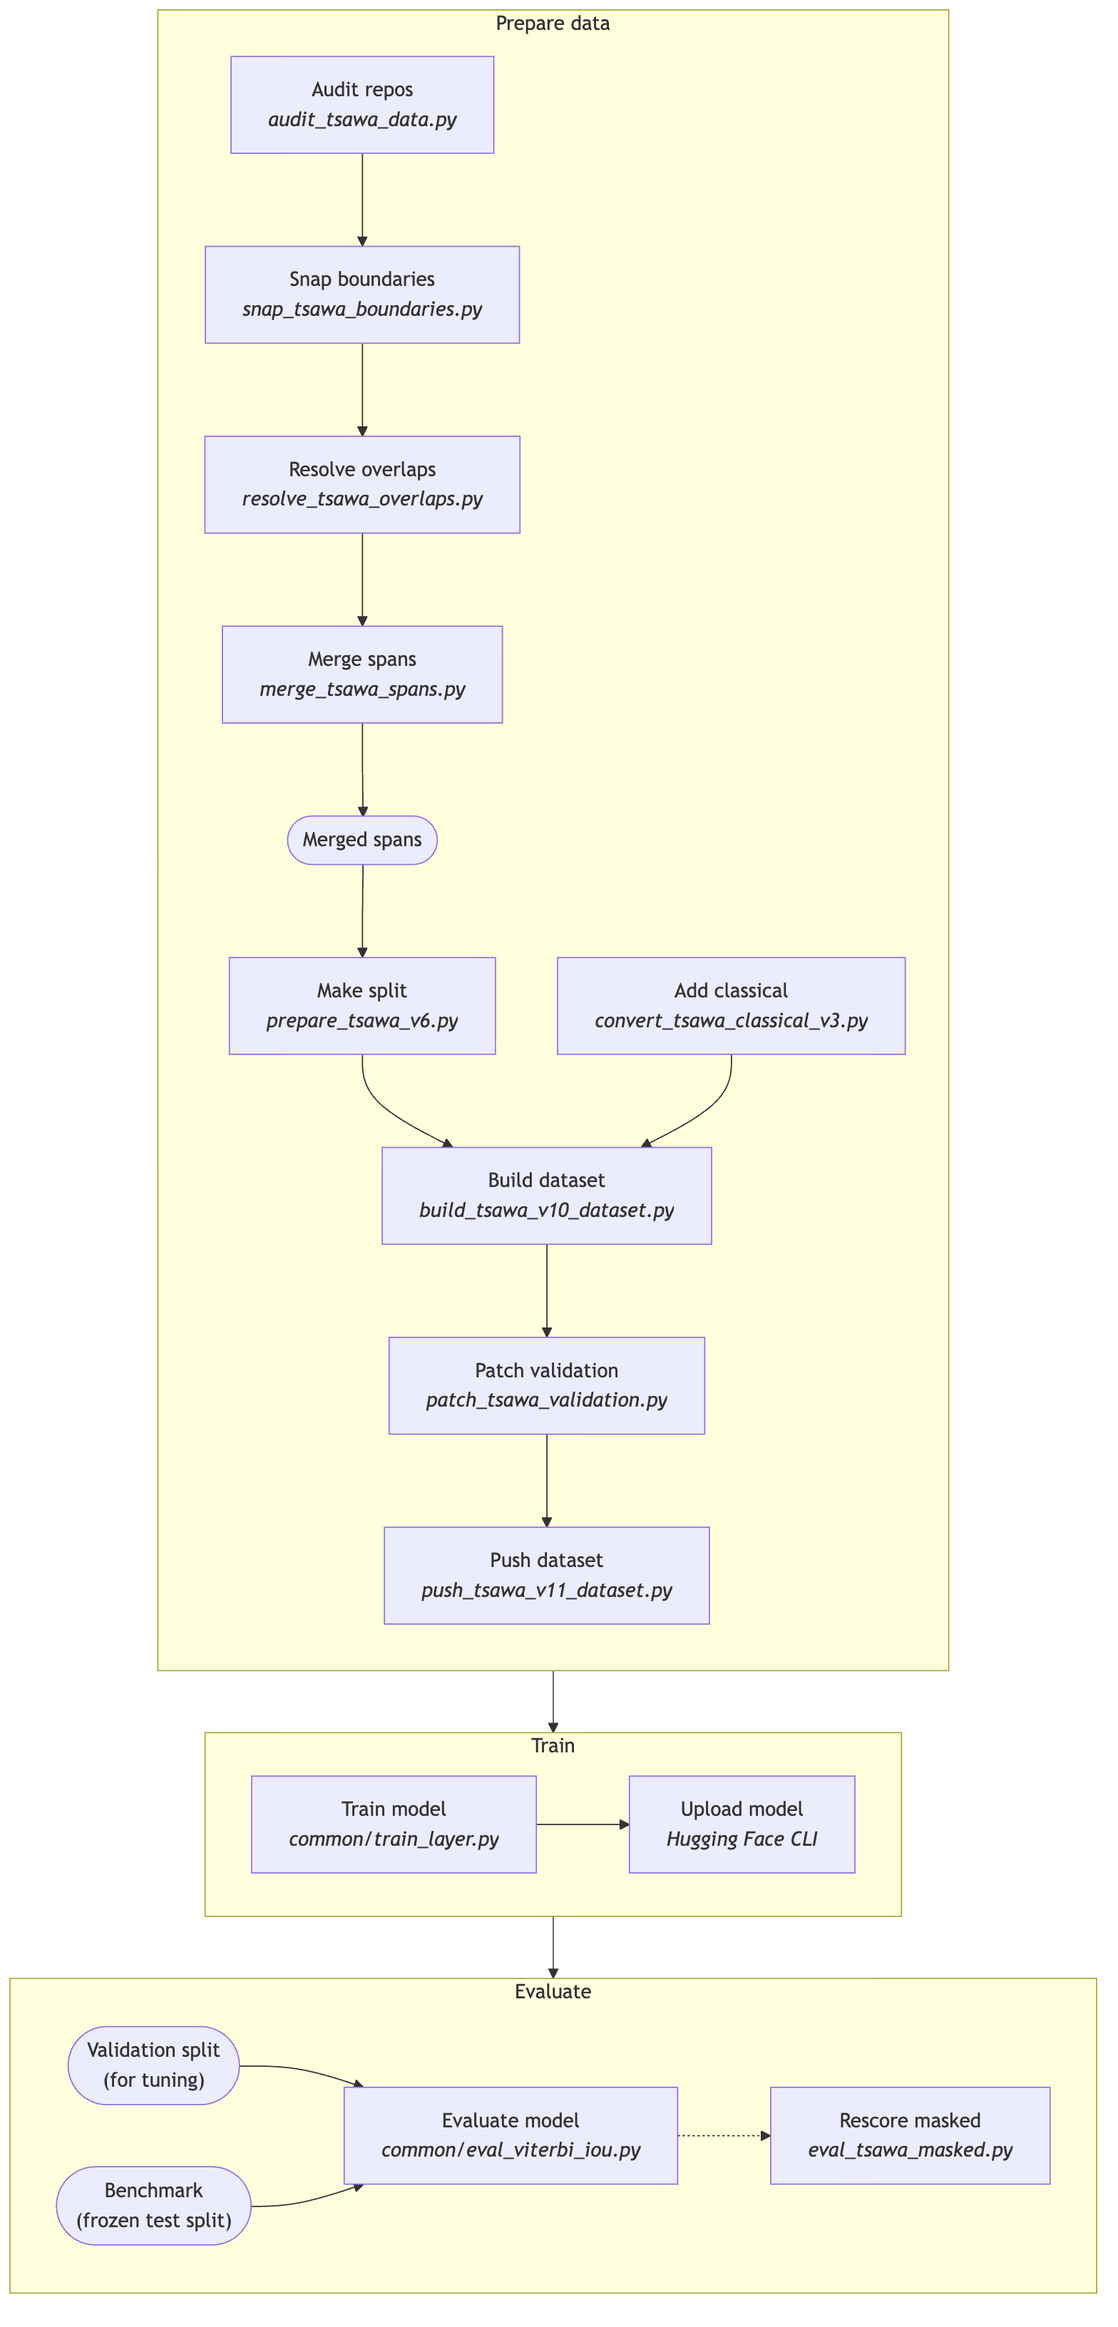
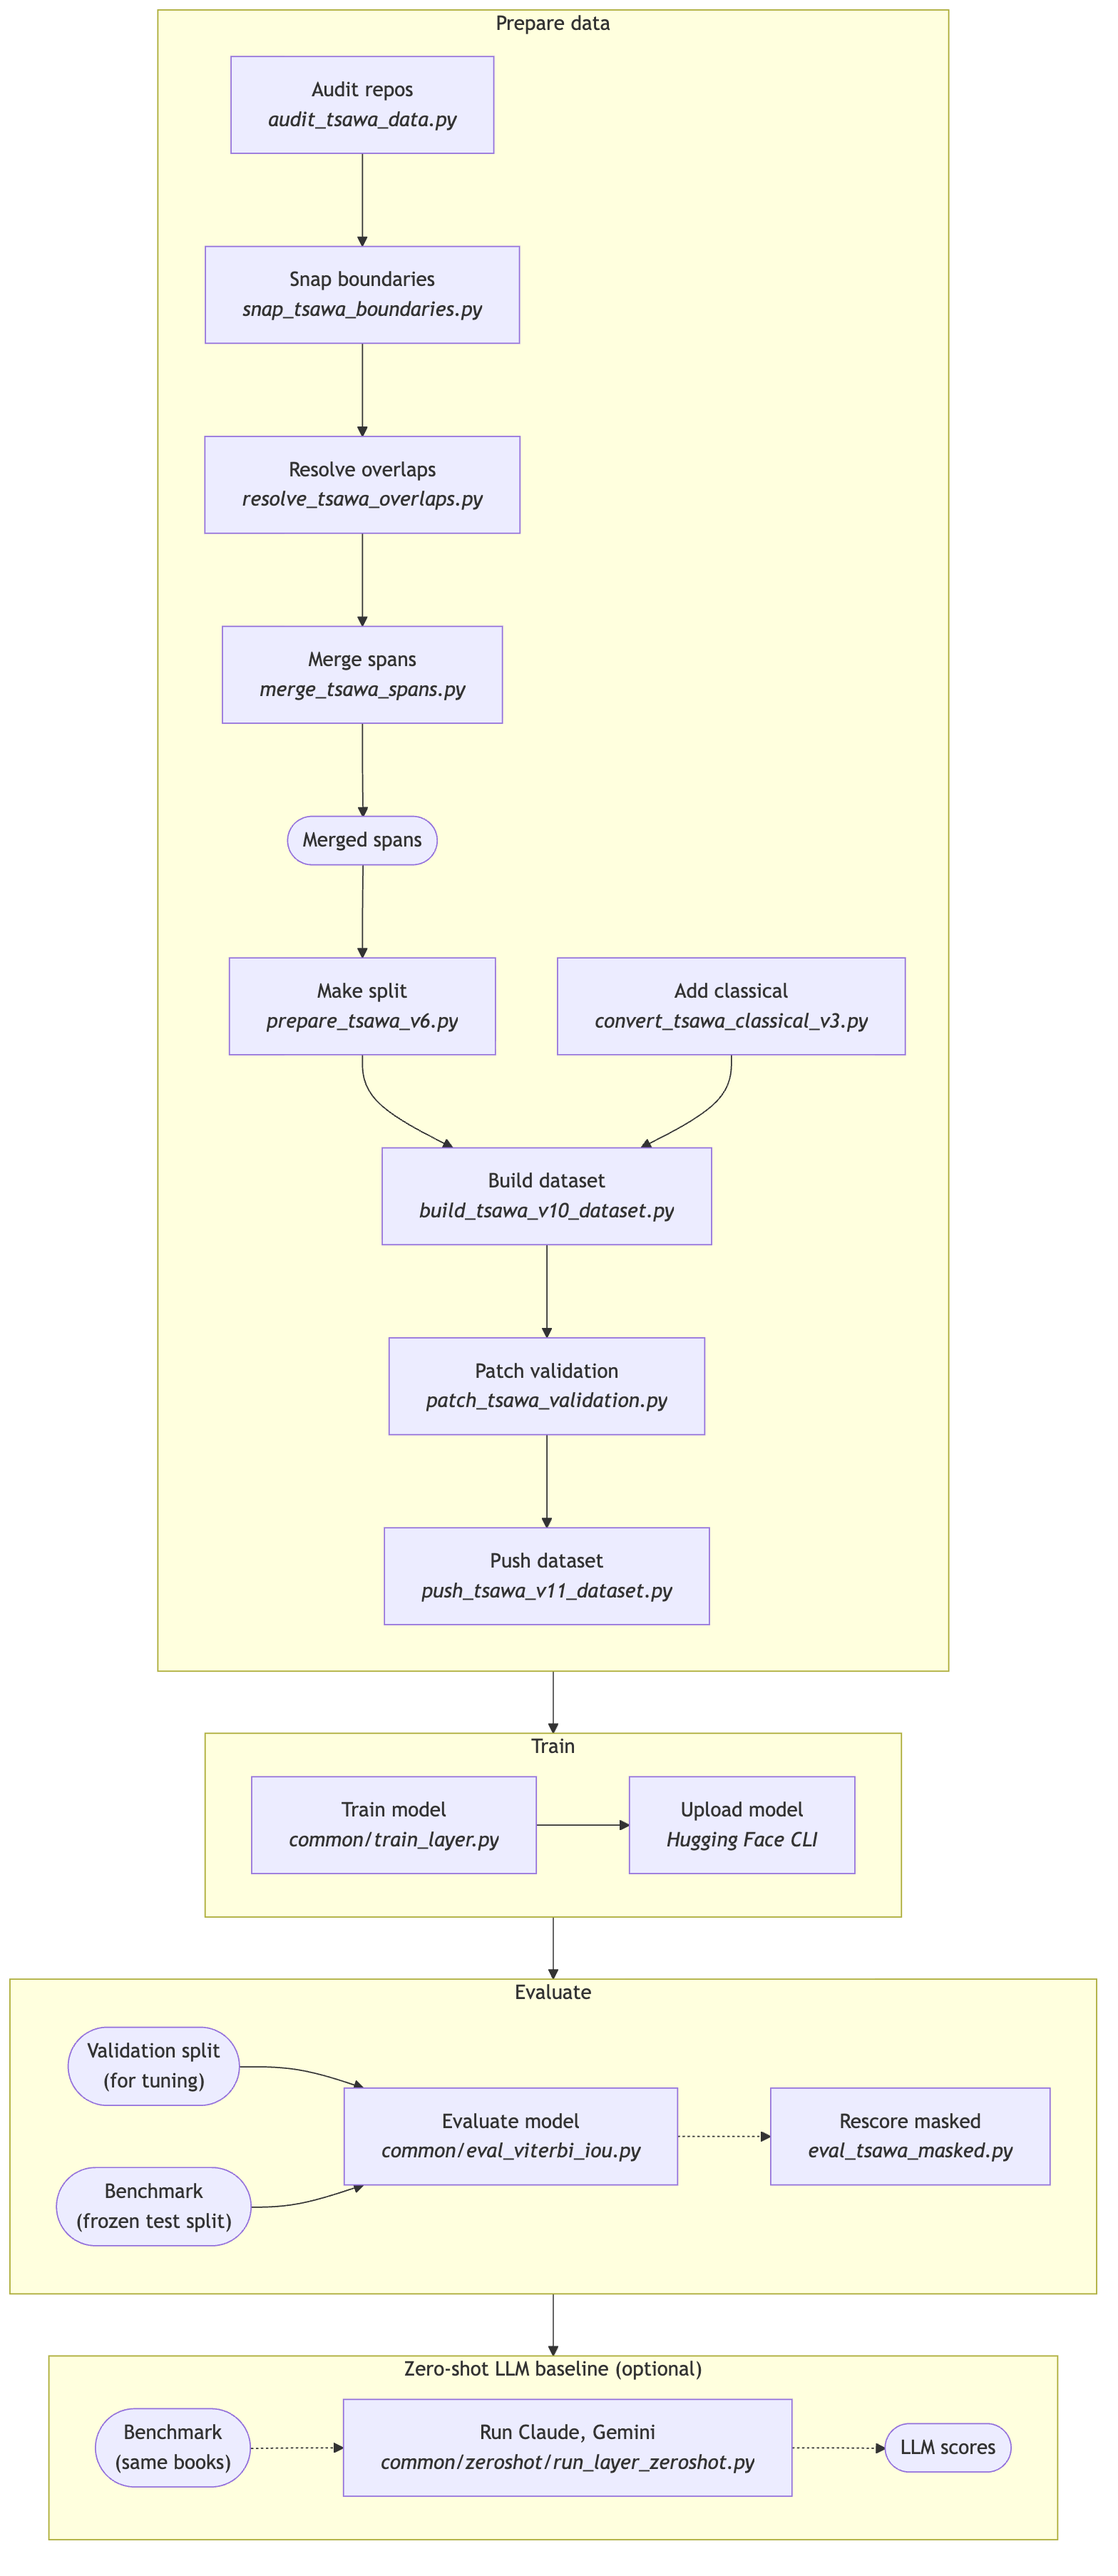
Tsawa chart: optional zero-shot LLM box; Yigchung chart: show the Gemini genre runs

Changed region(s): [[0.0, 0.0, 1.0, 1.0]]

diff --git a/tsawa/README.md b/tsawa/README.md
@@ -32,7 +32,7 @@ Visibility read from the Hub on 2026-11-18; a 404 on the dataset means you need 
 
 <sub>Chart source: [pipeline.mmd](docs/pipeline.mmd)</sub>
 
-Squares are steps with the script that runs them; rounded boxes are files; dashed arrows are optional steps. The **benchmark** is the frozen test split: it is scored once and never used to tune. No zero-shot LLM results exist for Tsawa; only the prompt is in `docs/prompts/`. "Add classical" stands for three scripts (convert, split, collapse; see Main pipeline). The cards are in [docs/](docs/).
+Squares are steps with the script that runs them; rounded boxes are files; dashed arrows are optional steps. The **benchmark** is the frozen test split: it is scored once and never used to tune. The zero-shot LLM box is optional: the prompt is in `docs/prompts/` and the shared script runs it with `--layer tsawa`, but no Tsawa LLM results are saved in this repo. "Add classical" stands for three scripts (convert, split, collapse; see Main pipeline). The cards are in [docs/](docs/).
 
 ## Main pipeline
 

diff --git a/yigchung/README.md b/yigchung/README.md
@@ -47,7 +47,7 @@ Classified (genre) system:
 
 <sub>Chart source: [pipeline_2.mmd](docs/pipeline_2.mmd)</sub>
 
-Squares are steps with the script that runs them; rounded boxes are files; dashed arrows are optional steps. The **benchmark** is the corrected 77-book test set, scored once. Gemini is used here only to label genres, not as a baseline. Uploading the dataset and the model is done with the Hugging Face CLI (no script here).
+Squares are steps with the script that runs them; rounded boxes are files; dashed arrows are optional steps. The **benchmark** is the corrected 77-book test set, scored once. The Gemini runs shown in the second chart label each book's genre (several prompt versions); no Gemini span-detection results are saved in this repo. Uploading the dataset and the model is done with the Hugging Face CLI (no script here).
 
 ## Main pipeline
 
